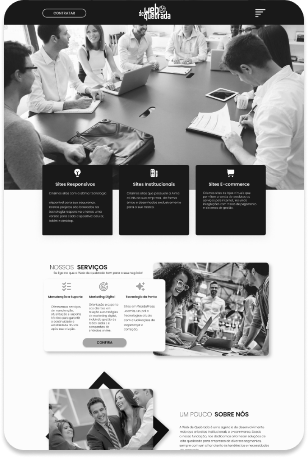
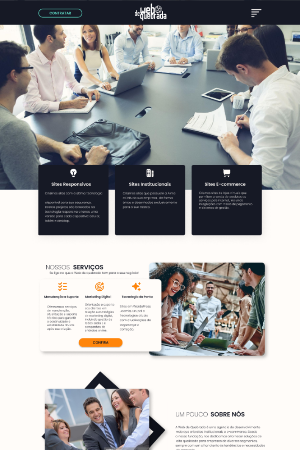
AOS
adicionado uma classe que desabilita o a animação AOS da DIV na pasta aos.css

diff --git a/css/estilo.css b/css/estilo.css
@@ -5,6 +5,10 @@
     overflow-x: hidden;
     overflow-y: hidden;
 }
+#sobre{
+    overflow-x: hidden;
+    overflow-y: hidden;
+}
 .tabela .img-tabela-responsive{
     display: none;
 }
@@ -17,6 +21,8 @@
     --white: #FFFCF9;
     --green: #31AF8B;
     --orange: #FF850A;
+    --shadow-card: 5px 5px 15px rgba(0,0,0,0.1);
+    --shadow-card2: 0 1px 10px 0 rgba(45, 54, 65, 0.2);
 }
 body{
     overflow-x: hidden;
@@ -33,7 +39,7 @@ body{
 /*botoes*/
 .slogan-btn, .tabela-btn, .sobre-btn, .clientes-btn {
     background-color: var(--darkblue);
-    box-shadow: 0 4px 15px 0 rgba(45, 54, 65, 0.75);
+    box-shadow: var(--shadow-card);
     width: 150px;
     height: auto;
     display: flex;
@@ -46,7 +52,7 @@ body{
     color: var(--white);
     padding: 10px;   
     border-radius: 50px;
-    box-shadow: 0px 15px 20px rgba(0,0,0,0.1);
+    box-shadow: var(--shadow-card);
     text-decoration: none;
     cursor: pointer;
     transition: all 0.5s ease-in-out;
@@ -117,7 +123,7 @@ body{
     border-radius: 50px;
     background-color:var(--darkblue);
     text-decoration: none;
-    box-shadow: 0px 0px 15px rgba(0,0,0,0.1);
+    box-shadow: var(--shadow-card);
     cursor: pointer;   
 }
 .tabela-btn a{
@@ -362,14 +368,14 @@ body{
     display: flex;
     flex-direction: column;
     align-items: center;
-    background-color: rgba(247, 244, 244, 0.9); 
+    background-color: var(--white); 
     width: 28%;
     height: auto;
     border-radius: 20px;   
     border-bottom: solid 5px var(--darkblue);
     border-top: solid 5px var(--darkblue); 
-    padding: 25px;
-    box-shadow: 0px 0px 15px rgba(0,0,0,0.1);
+    padding: 1%;
+    box-shadow: var(--shadow-card);
 }
 
 .servicos-banner div:nth-child(2){
@@ -517,7 +523,7 @@ button:hover .text{
     transform: translateX(100px);
     height: auto;
     padding: 4% 8%;
-    box-shadow: 10px 10px 15px rgba(0,0,0,0.1);
+    box-shadow: var(--shadow-card);
     background-color: var(--white);
     border-bottom: solid var(--darkblue);
 }
@@ -643,7 +649,7 @@ button:hover .text{
 }
 .portfolio div{
     background-image: url(../img/portfolio01.png);
-    border-radius: 15px;
+    border-radius: 10px;
     width: 300px;
     height: 450px;
     margin-bottom: 30px;
@@ -728,8 +734,8 @@ button:hover .text{
     margin-left: 0.5%;
     margin-right: 0.5%;
     border-radius: 10px;
-    border-bottom: solid 5px #000;
-    box-shadow: 5px 5px 15px rgba(0,0,0,0.1);
+    border-bottom: solid 5px var(--darkblue); 
+    box-shadow: var(--shadow-card);
 }
 
 .cliente-perfil {
@@ -771,16 +777,17 @@ button:hover .text{
 }
 
 .slick-dots li button:before {
-    margin-top: 20px;
+    margin-top: 30px;
     background-color: transparent;
-    border: 1px solid #000;
+    border: 1px solid var(--darkblue);
     border-radius: 15%;
     display: inline-block;
-    height: 10px;
+    height: 7px;
     width: 30px;
+    opacity: 0.1;
 }
 .slick-dots li.slick-active button:before {
-    background-color: rgb(26, 24, 24);
+    background-color: var(--darkblue);
 }
 
 

diff --git a/index.html b/index.html
@@ -26,6 +26,7 @@
       crossorigin="anonymous"
       referrerpolicy="no-referrer"
     ></script>
+
     <link
       rel="stylesheet"
       href="https://cdnjs.cloudflare.com/ajax/libs/slick-carousel/1.8.1/slick-theme.min.css"
@@ -56,6 +57,7 @@
     <link href="https://unpkg.com/aos@2.3.1/dist/aos.css" rel="stylesheet" />
 
     <link rel="stylesheet" href="css/estilo.css" />
+    <link rel="stylesheet" href="css/aos.css">
     <!--responsivo-->
     <link rel="stylesheet" href="css/responsivo.css" />
   </head>
@@ -134,7 +136,7 @@
 
     <main>
       <!-- Serviços -->
-      <section>
+      <section id="responsivo-carro">
         <div data-aos="fade-up" class="servicos-banner site posicionamento">
           <div>
             <img src="img/servico-banner-01.svg" alt="" />
@@ -196,7 +198,7 @@
             </div>
             <div class="servicos-tabela">
               <div class="tabela">
-                <div data-aos="fade-right">
+                <div class="aos-item" data-aos="fade-right">
                   <img
                     src="img/servico-icon-01.svg"
                     alt="Lista"
@@ -215,7 +217,7 @@
                   </p>
                 </div>
 
-                <div data-aos="fade-left">
+                <div class="aos-item" data-aos="fade-left">
                   <img
                     src="img/servico-icon-02.svg"
                     alt="Marketing"
@@ -233,7 +235,7 @@
                   </p>
                 </div>
 
-                <div data-aos="fade-right">
+                <div class="aos-item" data-aos="fade-right">
                   <img
                     src="img/servico-icon-03.svg"
                     alt="Estrelas"
@@ -264,8 +266,8 @@
 
       <!-- Sobre -->
       <section id="sobre">
-        <div data-aos="fade-right" class="sobre site">
-          <img src="img/sobre-img-01.png" alt="" />
+        <div  class="sobre site">
+          <img data-aos="fade-right"src="img/sobre-img-01.png" alt="" />
 
           <div data-aos="fade-left" class="sobre-info">
             <h2>Um pouco <span>Sobre nós</span></h2>
@@ -478,6 +480,7 @@
     <script src="https://unpkg.com/aos@2.3.1/dist/aos.js"></script>
     <!--slick-->
     <!--pasta js-->
+    <script src="./script/aos.js"></script>
     <script src="./script/javascript.js"></script>
   </body>
 </html>

diff --git a/script/javascript.js b/script/javascript.js
@@ -4,8 +4,7 @@ window.alert('Formulário sendo feito');
 }
 
 
-// inicializador do AOS
-AOS.init();
+
 $('.clientesCarro').slick({
   dots: true,
   infinite: true,
@@ -126,5 +125,28 @@ $(document).ready(function() {
 
 
 
+//inicializador do carrousel a partir do tamanho da tela
+
+function initCarrossel() {
+  // Lógica para inicializar o carrossel aqui
+  console.log("Carrossel inicializado!");
+}
+
+function handleMediaQuery(mq) {
+  if (mq.matches) {
+      // Tamanho da tela atende à condição
+      initCarrossel();
+      document.getElementById("responsivo-carro").style.display = "block";
+  } else {
+      // Tamanho da tela não atende à condição
+      document.getElementById("responsivo-carro").style.display = "none";
+  }
+}
+
+var mediaQuery = window.matchMedia("(min-width: 768px)"); // Defina o tamanho de tela desejado
+
+handleMediaQuery(mediaQuery); // Verifica o tamanho da tela inicialmente
+
+mediaQuery.addListener(handleMediaQuery); // Verifica o tamanho da tela sempre que houver alteração
 
 

diff --git a/css/responsivo.css b/css/responsivo.css
@@ -282,8 +282,8 @@
         padding: 5%;
         width: 70%;
         height: auto;
-        border-radius: 5px;
-        box-shadow: 0 1px 10px 0 rgba(45, 54, 65, 0.2);
+        border-radius: 7px;
+        box-shadow: var(--shadow-card2);
         color: var(--darkblue);
     }
     .tabela div:nth-child(1){
@@ -419,8 +419,8 @@
         margin-bottom: 20px;
     }
     .portfolio img {
-        width: 50px;
-        height: 50px; 
+        width: 35px;
+        height: 35px; 
        }
 
     .portfolio div:nth-child(3){
@@ -477,13 +477,11 @@
         width: 60%;
         height: 250px;
     }
-    .clientes .client{
-        
-        border-radius: 5px;
-        border-bottom: solid 5px #000;
-        box-shadow: 5px 5px 15px rgba(0,0,0,0.1);
+    .clientes .client{    
+        border-radius: 7px;
+        border-bottom: solid 5px var(--darkblue); 
     }
-    
+ 
     .cliente-perfil {
         width: 25%;
         border: solid 2px var(--darkblue);

diff --git a/css/aos.css b/css/aos.css
@@ -1,0 +1,7 @@
+/*controle das açoes do AOS*/
+@media only screen and (min-width:768px) {
+    .aos-item { /*não aparecerá a animação para a div que receber esta classe*/
+      opacity: 1 !important;
+      transform: translate(0) scale(1) !important;
+    }
+}

diff --git a/script/aos.js b/script/aos.js
@@ -1,0 +1,2 @@
+// inicializador do AOS
+AOS.init();
